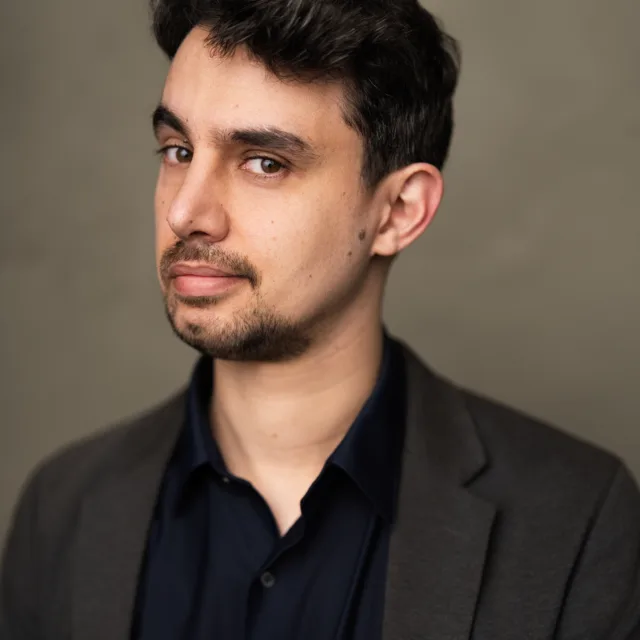
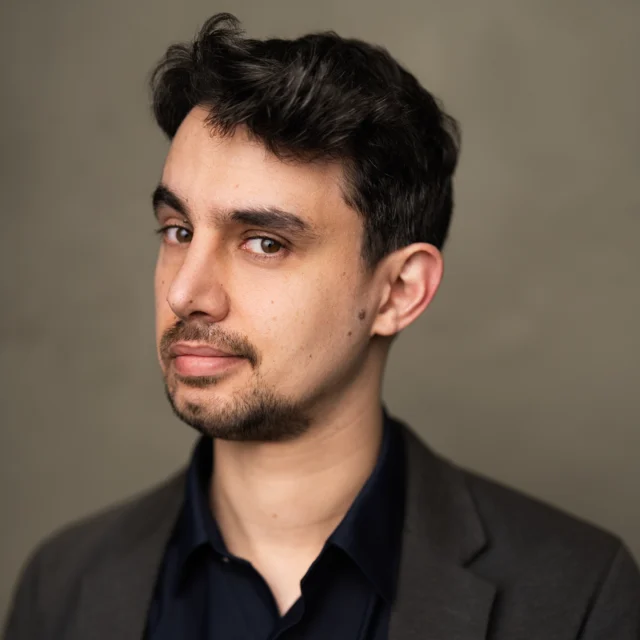
Update opportunities page and profile assets

diff --git a/src/styles/opportunities.css b/src/styles/opportunities.css
@@ -4,8 +4,16 @@
 }
 
 .opportunities-index-intro {
-  width: min(1120px, 100%);
+  width: min(1200px, 100%);
   margin: 0 auto;
+}
+
+.opportunities-index-intro h1 {
+  max-width: 1120px;
+  margin: 0;
+  color: var(--ink);
+  font-size: clamp(32px, 4.5vw, 58px);
+  line-height: 1.02;
 }
 
 .opportunity-route-index {
@@ -39,18 +47,6 @@
 
 .opportunity-route-index-main p {
   color: var(--muted);
-}
-
-.opportunity-route-status {
-  width: fit-content;
-  padding: 5px 9px;
-  border: 1px solid var(--line-strong);
-  border-radius: 999px;
-  color: var(--ink-soft);
-  font-size: 12px;
-  font-weight: 850;
-  line-height: 1;
-  text-transform: uppercase;
 }
 
 .opportunity-route-index-entry .button {

diff --git a/src/content/people.ts b/src/content/people.ts
@@ -325,6 +325,26 @@ function slugify(value: string) {
 }
 
 export function buildProfileAssetUrl(personSlug: string) {
+  if (personSlug === 'ani-calinescu') {
+    return '/profile-assets/ani-calinescu-new.jpg'
+  }
+
+  if (personSlug === 'antoine-cully') {
+    return '/profile-assets/Antoine-Cully-new.png'
+  }
+
+  if (personSlug === 'jakob-foerster') {
+    return '/profile-assets/jakob-foerster-new.png'
+  }
+
+  if (personSlug === 'ravi-hammond') {
+    return '/profile-assets/ravi-hammond.png'
+  }
+
+  if (personSlug === 'shimon-whiteson') {
+    return '/profile-assets/shimon-whiteson-new.jpg'
+  }
+
   return `/profile-assets/${personSlug}.webp`
 }
 

diff --git a/src/ui/cards/Avatar.tsx b/src/ui/cards/Avatar.tsx
@@ -14,9 +14,13 @@ export function Avatar({
   const image = getAvatarImageSource(person.image)
 
   if (image) {
+    const uncroppedClassName = isUncroppedProfileImage(image)
+      ? ' avatar-uncropped'
+      : ''
+
     return (
       <img
-        className={`avatar avatar-${size}`}
+        className={`avatar avatar-${size}${uncroppedClassName}`}
         src={image}
         alt={person.name}
       />
@@ -44,4 +48,14 @@ function getAvatarImageSource(image?: string) {
   }
 
   return profileImages[image]
+}
+
+function isUncroppedProfileImage(image: string) {
+  return (
+    image === '/profile-assets/ani-calinescu-new.jpg' ||
+    image === '/profile-assets/Antoine-Cully-new.png' ||
+    image === '/profile-assets/jakob-foerster-new.png' ||
+    image === '/profile-assets/ravi-hammond.png' ||
+    image === '/profile-assets/shimon-whiteson-new.jpg'
+  )
 }

diff --git a/tests/opportunities-index-render-case.tsx b/tests/opportunities-index-render-case.tsx
@@ -30,7 +30,12 @@ const fallbackOpportunitiesIndex = renderToStaticMarkup(
 
 assert.match(
   opportunitiesIndex,
-  /<h1>Express interest in joining, visiting, working with, or collaborating with BOLD\.<\/h1>/,
+  /<h1>Interested in joining, visiting, or collaborating with BOLD\?<\/h1>/,
+)
+assert.doesNotMatch(opportunitiesIndex, />Opportunities<\/p>/)
+assert.doesNotMatch(
+  opportunitiesIndex,
+  /BOLD reviews serious Expressions of Interest/,
 )
 
 for (const route of opportunityRoutes) {
@@ -48,7 +53,7 @@ for (const route of opportunityRoutes) {
     opportunitiesIndex,
     new RegExp(`href="${renderedHref}"[^>]*>${escapeRegExp(renderedAction)}</a>`),
   )
-  assert.match(opportunitiesIndex, new RegExp(`>${escapeRegExp(route.status)}<`))
+  assert.doesNotMatch(opportunitiesIndex, new RegExp(`>${escapeRegExp(route.status)}<`))
   assert.doesNotMatch(opportunitiesIndex, new RegExp(escapeRegExp(escapeHtml(route.location))))
   assert.doesNotMatch(opportunitiesIndex, new RegExp(escapeRegExp(escapeHtml(route.timing))))
   assert.doesNotMatch(
@@ -67,7 +72,7 @@ for (const route of opportunityRoutes) {
   )
 }
 
-assert.match(opportunitiesIndex, /this Opportunities page/)
+assert.doesNotMatch(opportunitiesIndex, /this Opportunities page/)
 assert.match(opportunitiesIndex, /id="express-interest"/)
 assert.match(opportunitiesIndex, /aria-label="Expression of Interest form"/)
 assert.match(opportunitiesIndex, /aria-label="Select a role"/)

diff --git a/src/features/opportunities/OpportunitiesPage.tsx b/src/features/opportunities/OpportunitiesPage.tsx
@@ -8,7 +8,6 @@ import type {
   ExpressionOfInterestFormConfig,
   OpportunityRoute,
 } from '../../content'
-import { SectionHeader } from '../../ui/layout/SectionHeader'
 
 const tallyEmbedScriptId = 'tally-embed-script'
 const tallyEmbedScriptSrc = 'https://tally.so/widgets/embed.js'
@@ -37,12 +36,7 @@ export function OpportunitiesPage({
   return (
     <section className="section-band page-content opportunities-index-page">
       <div className="opportunities-index-intro">
-        <SectionHeader
-          eyebrow="Opportunities"
-          title="Express interest in joining, visiting, working with, or collaborating with BOLD."
-          titleElement="h1"
-          description="BOLD reviews serious Expressions of Interest through a small set of approved Opportunity Routes. Choose the route that best matches the relationship you want to explore; detailed guidance and any Formal Application Path boundaries live on this Opportunities page."
-        />
+        <h1>Interested in joining, visiting, or collaborating with BOLD?</h1>
       </div>
 
       <div className="opportunity-route-index" aria-label="Opportunity Routes">
@@ -76,7 +70,6 @@ function OpportunityRouteIndexEntry({
     <article className="opportunity-route-index-entry" id={route.slug}>
       <div className="opportunity-route-index-main">
         <div className="opportunity-route-index-heading">
-          <p className="opportunity-route-status">{route.status}</p>
           <h3>{route.title}</h3>
         </div>
         <p>{route.shortSummary}</p>

diff --git a/src/styles/people.css b/src/styles/people.css
@@ -104,6 +104,12 @@
   background: var(--wash);
 }
 
+.avatar-uncropped {
+  aspect-ratio: auto;
+  height: auto;
+  object-fit: contain;
+}
+
 .avatar-large {
   border-radius: 8px;
 }

diff --git a/src/content/site.ts b/src/content/site.ts
@@ -8,7 +8,7 @@ export const siteMeta = {
     'A focused, critical-mass AI research lab across Oxford, UCL, and Imperial pursuing fundamental AI breakthroughs from Britain.',
   missionPhrase: 'Building the next AI paradigm.',
   mission:
-    'BOLD brings key researchers in fundamental AI from Oxford, UCL, and Imperial into a focused, critical-mass UK AI Research Lab dedicated to driving breakthroughs in alternatives to backpropagation, human-centric learning, and embodiment.',
+    'BOLD brings together key researchers in fundamental AI from Oxford, UCL, and Imperial College into one focused, critical-mass UK AI Research Lab, dedicated to paradigm breaking discoveries in fundamental AI. Our initial research pillars are Beyond Backpropagation, Human-Centric Learning & Discovery, and Embodied AI.',
   identity:
     'Our lab brings together three leading university AI labs into a single collaborative research environment. We combine academic depth, engineering excellence, and long-term scientific ambition.',
   statement: